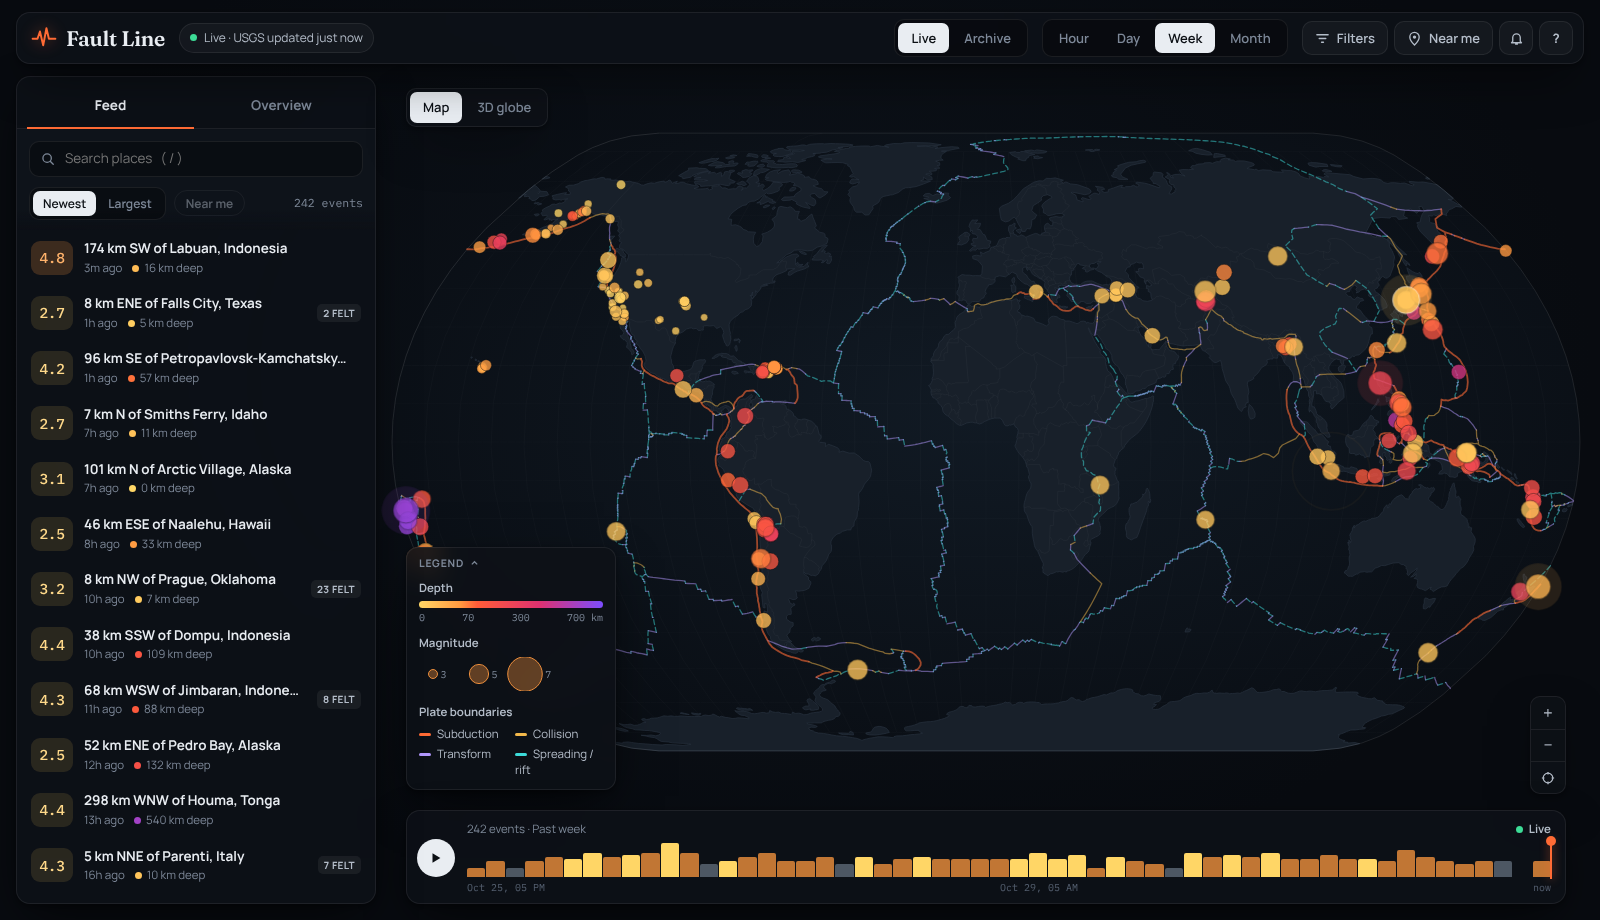
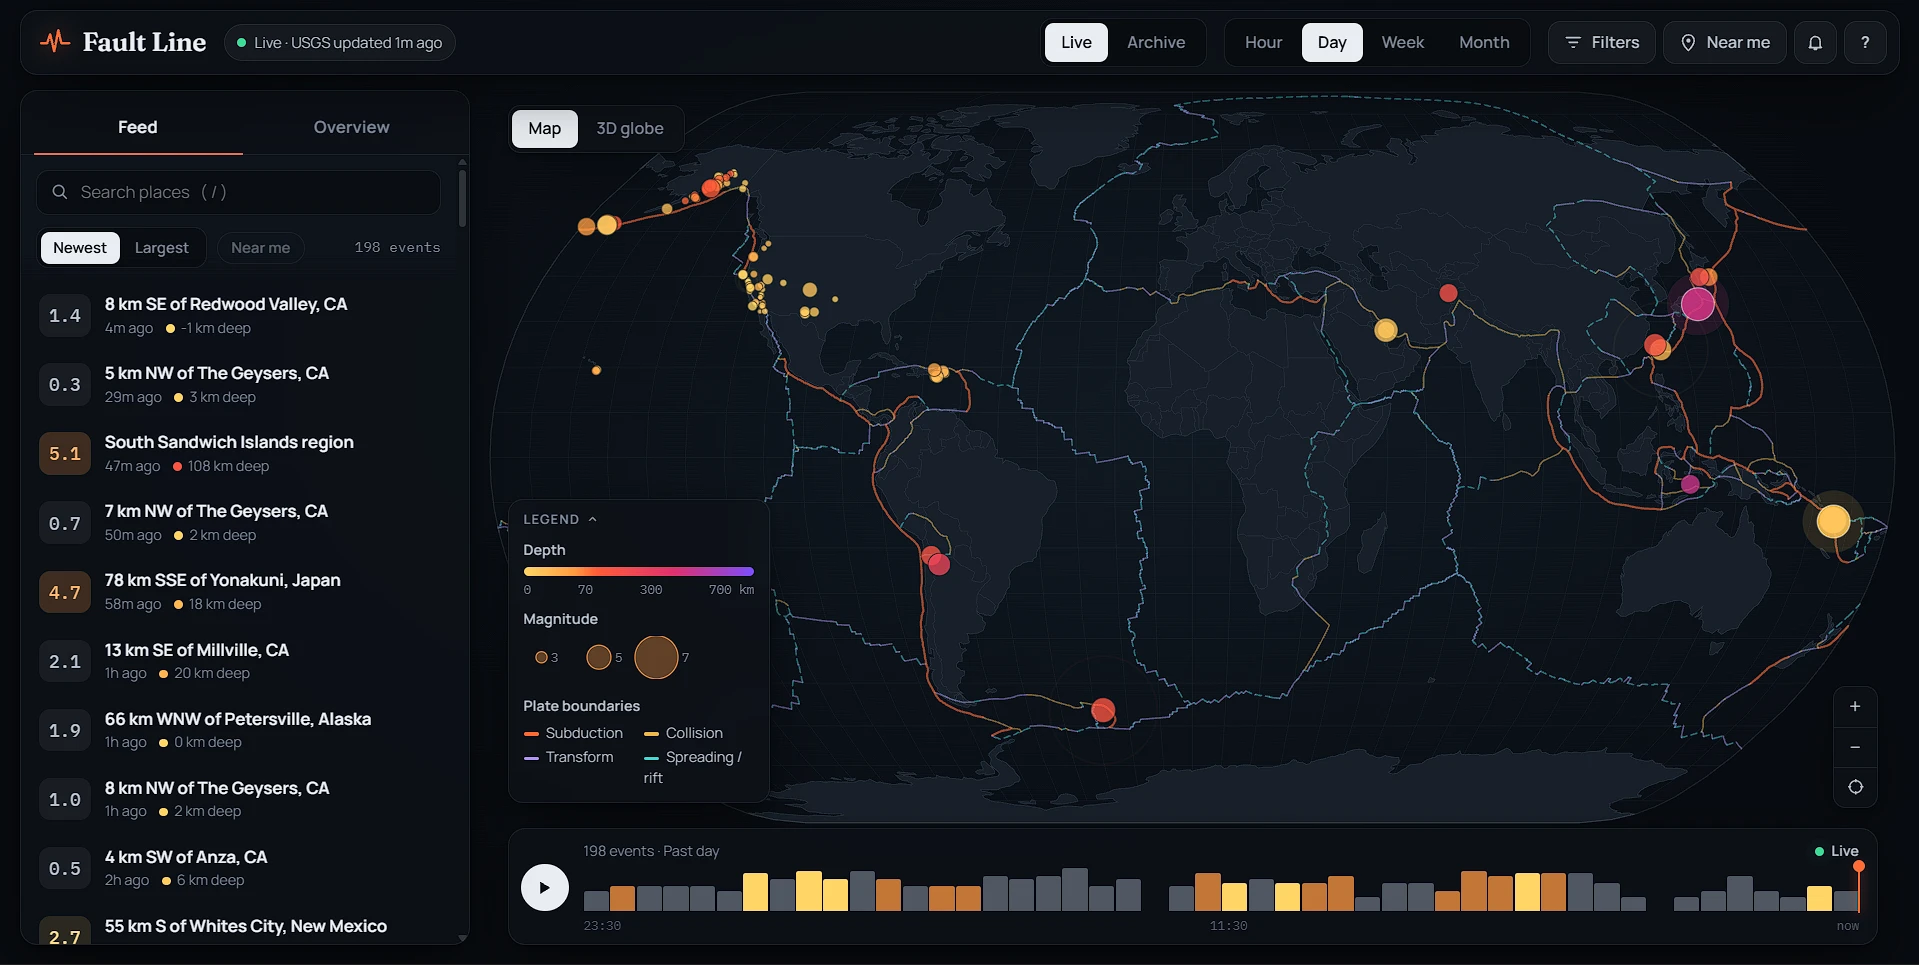
Use a screenshot of the live deployment as the README hero image

diff --git a/README.md b/README.md
@@ -10,13 +10,13 @@ Built with React, TypeScript, d3-geo, three.js and Express on free, keyless publ
 
 **Live demo:** [fault-line.onrender.com](https://fault-line.onrender.com/) (Render's free tier sleeps when idle, so the first load can take up to a minute)
 
-![Live map: plate boundaries, the past week of quakes, the event feed and the replay timeline](docs/screenshots/overview.png)
+![Live map on fault-line.onrender.com: plate boundaries, the past day of quakes, the event feed and the replay timeline](docs/screenshots/overview.png)
 
 ![A selected M6.1 in Japan: estimated shaking contours, nearby cities, tectonic setting and aftershock forecast](docs/screenshots/quake-detail.png)
 
 ![3D globe: a month of M2.5+ quakes at 3x depth; the deep Tonga-Fiji slab shows in violet inside the Earth](docs/screenshots/globe.png)
 
-<sub>Screenshots were captured against a recorded USGS M2.5+ week feed from late November 2024, replayed through the app locally.</sub>
+<sub>The first screenshot is the live deployment. The detail and globe screenshots were captured against recorded USGS feeds from late November 2024, replayed through the app locally.</sub>
 
 ---
 
